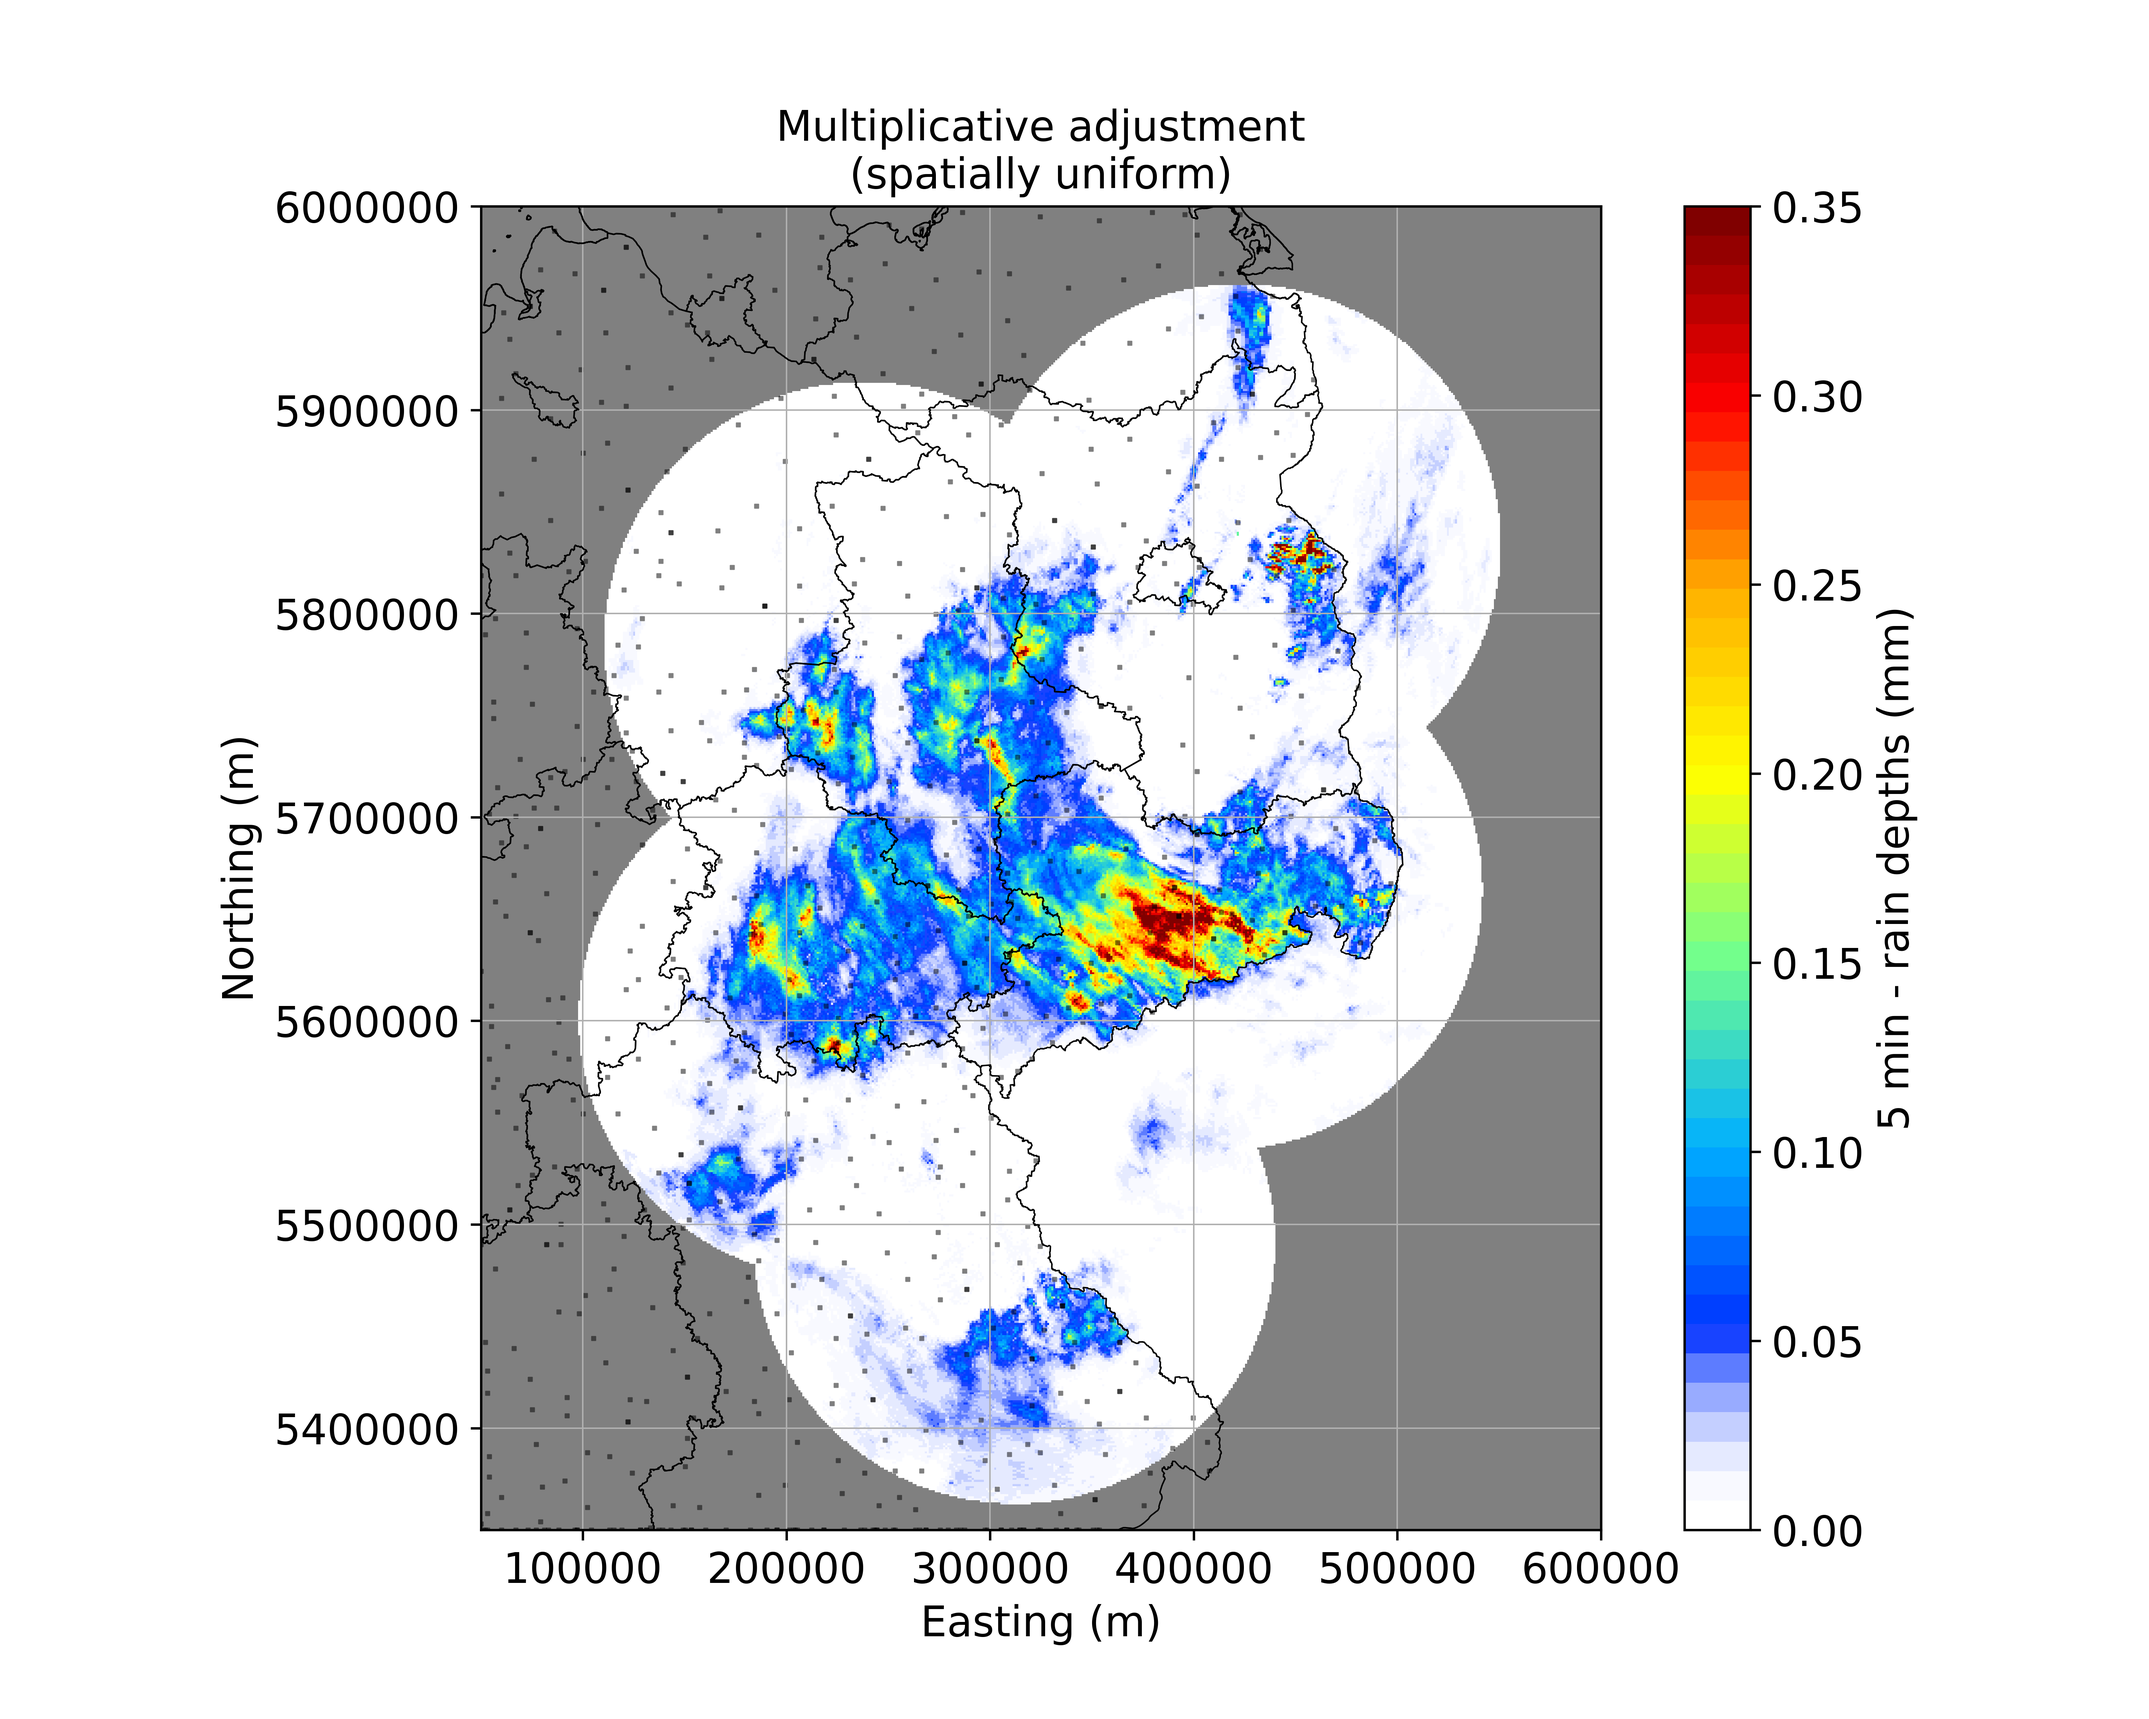
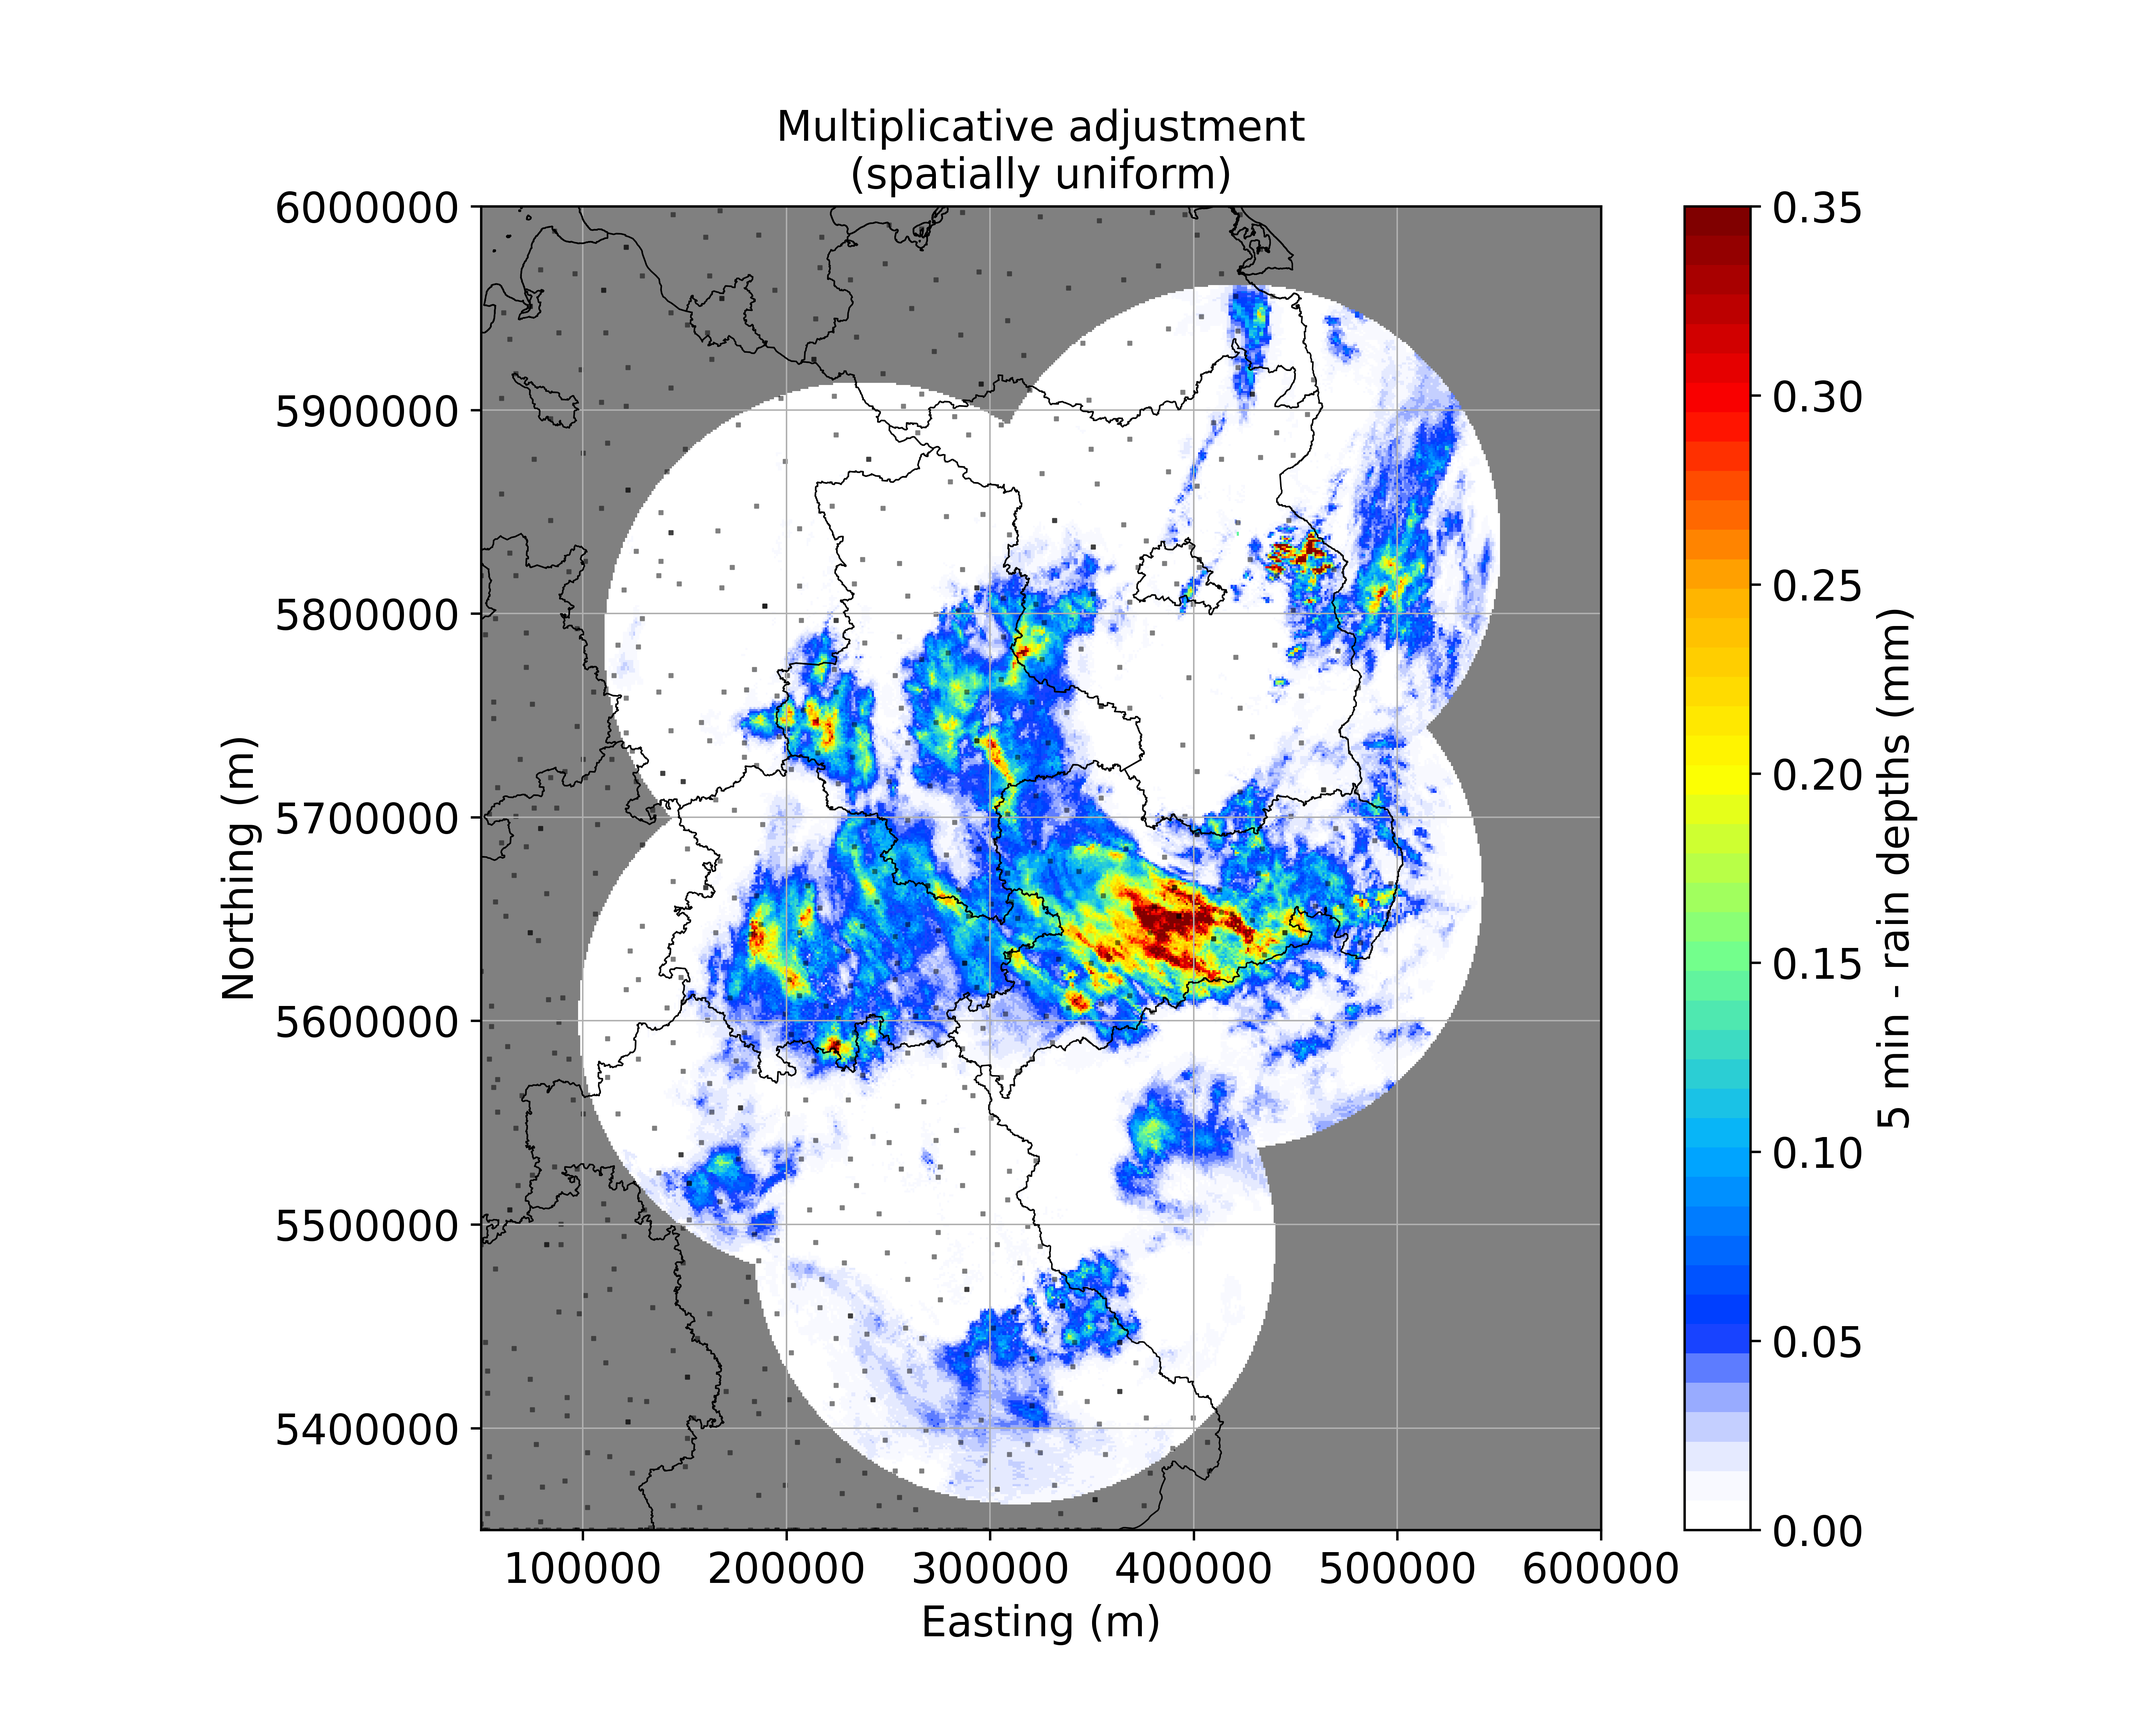
Final plots? :)

Changed region(s): [[0.4987, 0.1875, 0.7168, 0.7812]]

diff --git a/code/PlotComposite.py b/code/PlotComposite.py
@@ -146,8 +146,8 @@ def raw_in_cz(array_adjusted):
 
 # Plot adjusted radar data.
 plot_grid(raw_in_cz(adjusted_add_arr), gaugedata, xgrid, ygrid, "Additive adjustment\n(spatially variable)", f"adjustment/adjustment_add", minutes, plotgauges=True)
-plot_grid(raw_in_cz(adjusted_mul_arr), gaugedata, xgrid, ygrid,"Multiplicative adjustment\n(spatially variable)", f"adjustment/adjustment_mul", minutes, plotgauges=True)
-plot_grid(raw_in_cz(adjusted_mulcon_arr), gaugedata, xgrid, ygrid,"Multiplicative adjustment\n(spatially uniform)", f"adjustment/adjustment_mfb", minutes, plotgauges=True)
+plot_grid(adjusted_mul_arr, gaugedata, xgrid, ygrid,"Multiplicative adjustment\n(spatially variable)", f"adjustment/adjustment_mul", minutes, plotgauges=True)
+plot_grid(adjusted_mulcon_arr, gaugedata, xgrid, ygrid,"Multiplicative adjustment\n(spatially uniform)", f"adjustment/adjustment_mfb", minutes, plotgauges=True)
 plot_grid(raw_in_cz(adjusted_mix_arr), gaugedata, xgrid, ygrid,"Additive-multiplicative-mixed adjustment\n(spatially variable)", f"adjustment/adjustment_mixed", minutes, plotgauges=True)
 
 # Plot errors.    
